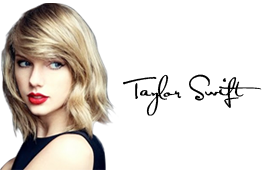
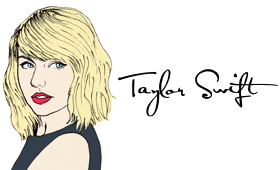
Update celebrity image on homepage

Changed region(s): [[0.0, 0.0, 1.0, 1.0], [0.2286, 0.8529, 0.2571, 0.9118]]

diff --git a/static/stylesheets/home.css b/static/stylesheets/home.css
@@ -827,7 +827,7 @@ a.nav-logo-wrapper > img.logo-img {
 }
 .row.sign-like-star .box-celebrity {
   cursor: pointer;
-  background: #f1f1f1;
+  background: #ffffff;
   -moz-border-radius: 4px;
   -webkit-border-radius: 4px;
   border-radius: 4px;
@@ -1471,7 +1471,7 @@ footer ul li {
 }
 
 .remodal {
-  background-image: url('../images/Emondo-Icon-Colour.svg?1457552297') !important;
+  background-image: url('../images/Emondo-Icon-Colour.svg?1470696071') !important;
   background-position: 140% 358% !important;
   background-size: 58% 88% !important;
   background-repeat: no-repeat !important;

diff --git a/static/sass/home.scss b/static/sass/home.scss
@@ -398,7 +398,7 @@ a.nav-logo-wrapper {
 
   .box-celebrity {
     cursor: pointer;
-    background: #f1f1f1;
+    background: #ffffff;
     @include border-radius(4px);
     @include box-shadow(0px 35px 18px 0px rgba(0, 0, 0, 0.13));
     overflow: hidden;
